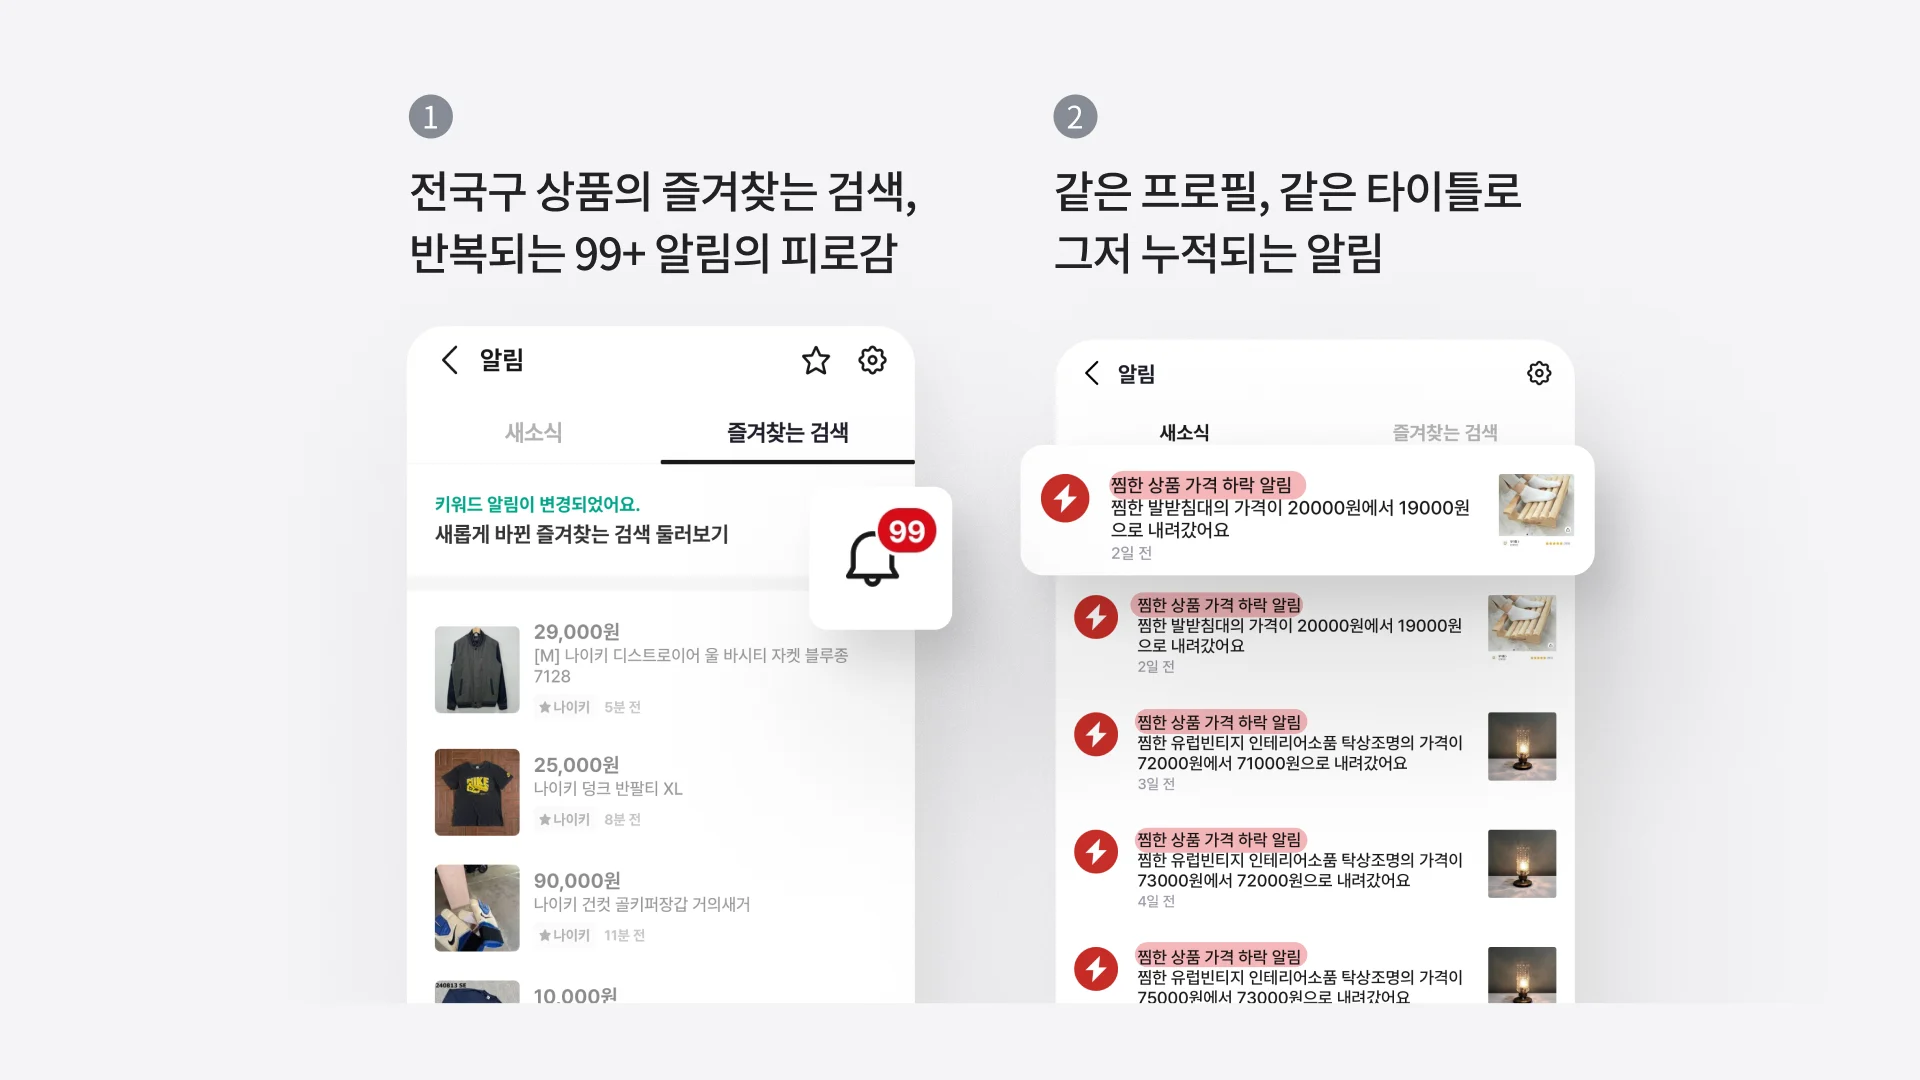
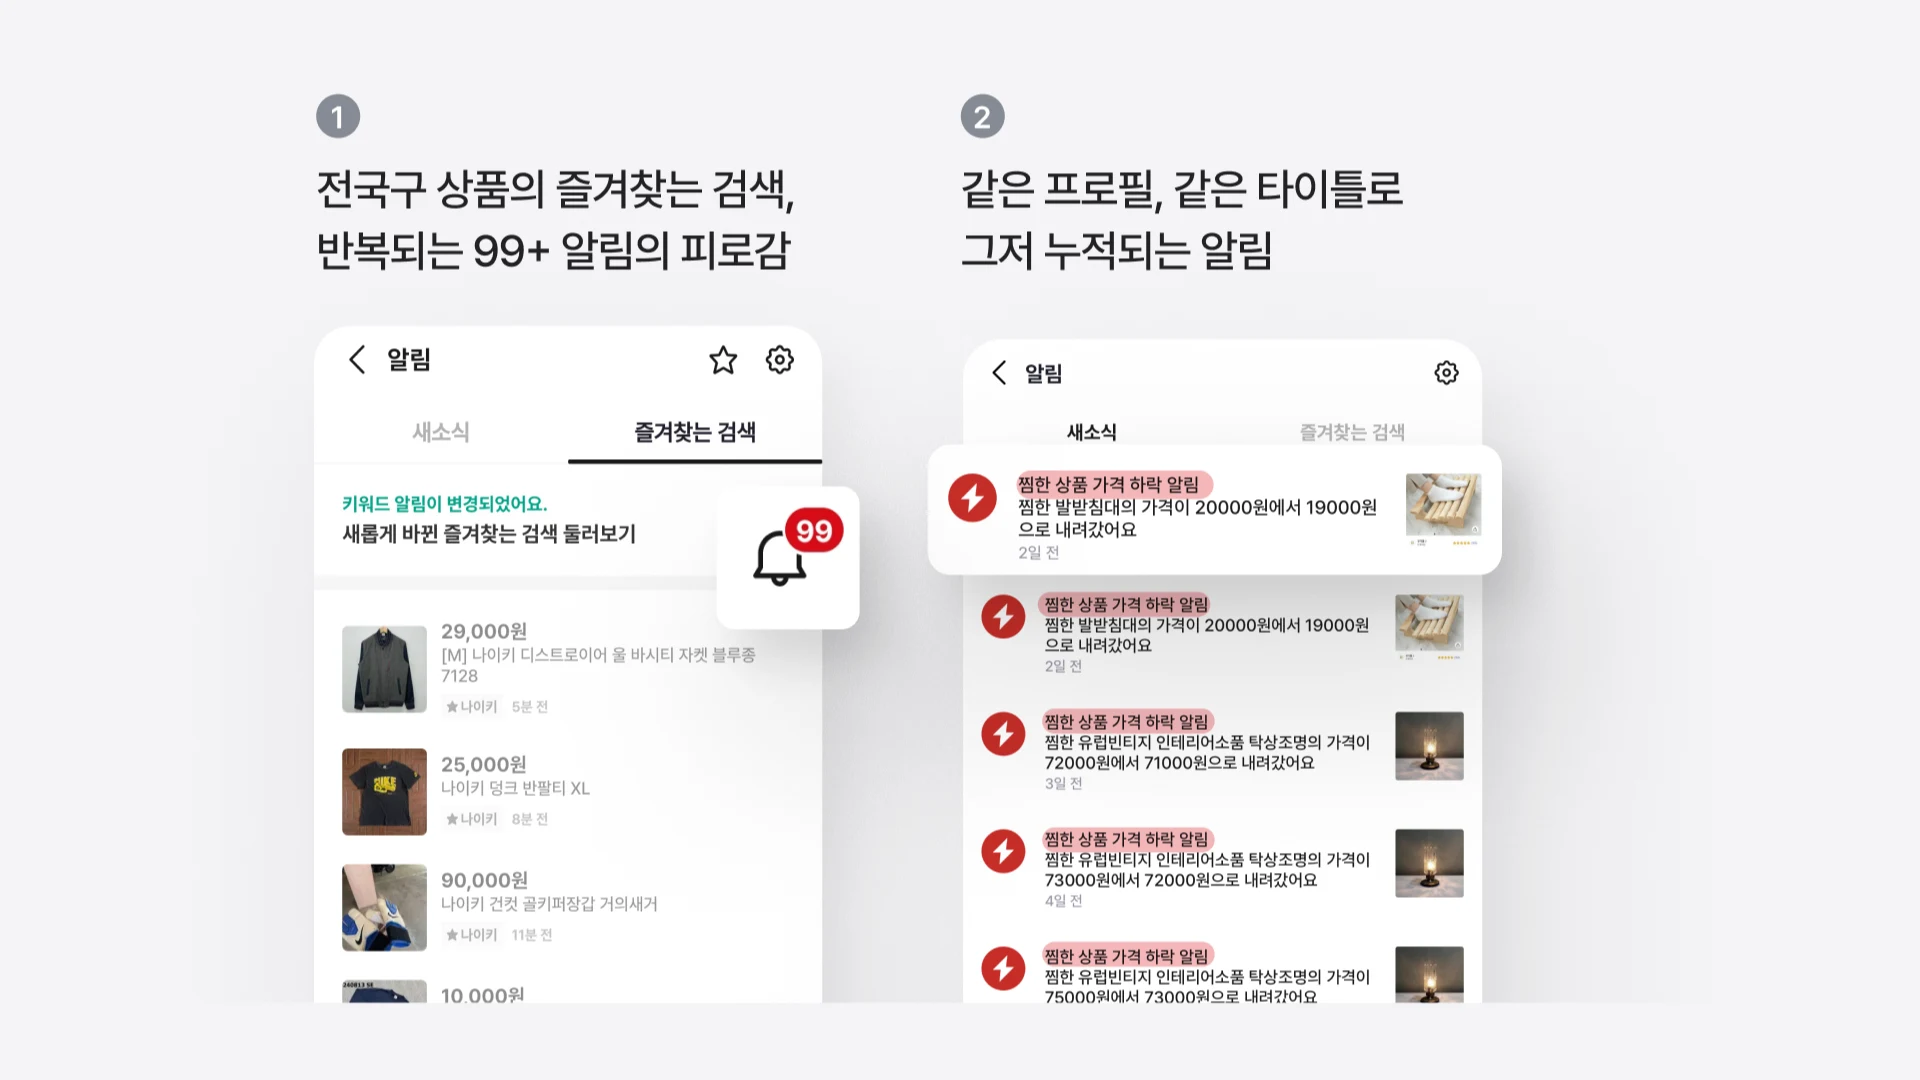
portfolio: 알림센터 원본 렌더로 교체(폰트 정상)

diff --git a/portfolio/projects.html b/portfolio/projects.html
@@ -283,9 +283,9 @@
 <img width="1920" height="1080" decoding="async" loading="lazy" src="img/bunjang/ts_main.webp" alt="">
 <p class="plabel">05 NOTIFICATION CENTER</p>
 <div class="pcap"><p class="pt"><span class="muted">Notification Center · 1인, 기여도 100%</span><br>알림센터 개편 선행 디자인</p><p class="pb">즐겨찾는 검색 알림이 99+로 쌓이고, 같은 프로필의 같은 알림이 그대로 누적되었습니다. 그 사이에 답해야 하는 거래 알림이 묻혀 바로 행동하기 어려웠습니다.</p></div>
-<img width="1920" height="1080" decoding="async" loading="lazy" src="img/bunjang/nc_1.webp?v=2" alt="">
+<img width="1920" height="1080" decoding="async" loading="lazy" src="img/bunjang/nc_1.webp?v=3" alt="">
 <div class="pcap"><p class="pt"><span class="muted">Group &amp; Act</span><br>묶고, 먼저 보이고, 바로 처리하게</p><p class="pb">같은 유형의 반복 알림은 한 줄로 묶어 더보기로 펼치게 했고, 상단 칩으로 즐겨찾기, 가격변화, 소식을 나눴습니다. 답이 필요한 가격제안은 목록 위 배너로 올려 바로 수락하거나 거절할 수 있게 했고, 여러 건은 바텀시트에서 한 번에 처리하도록 했습니다. 실무진 6명의 리뷰로 방향을 확인했고, 선행 디자인으로 보존되었습니다.</p></div>
-<img width="1920" height="1080" decoding="async" loading="lazy" src="img/bunjang/nc_3.webp?v=2" alt="">
+<img width="1920" height="1080" decoding="async" loading="lazy" src="img/bunjang/nc_3.webp?v=3" alt="">
 </template>
 <template id="proj-zerotoone">
 <img width="2560" height="1440" decoding="async" fetchpriority="high" src="img/zerotoone/01.webp?v=3" alt="">
